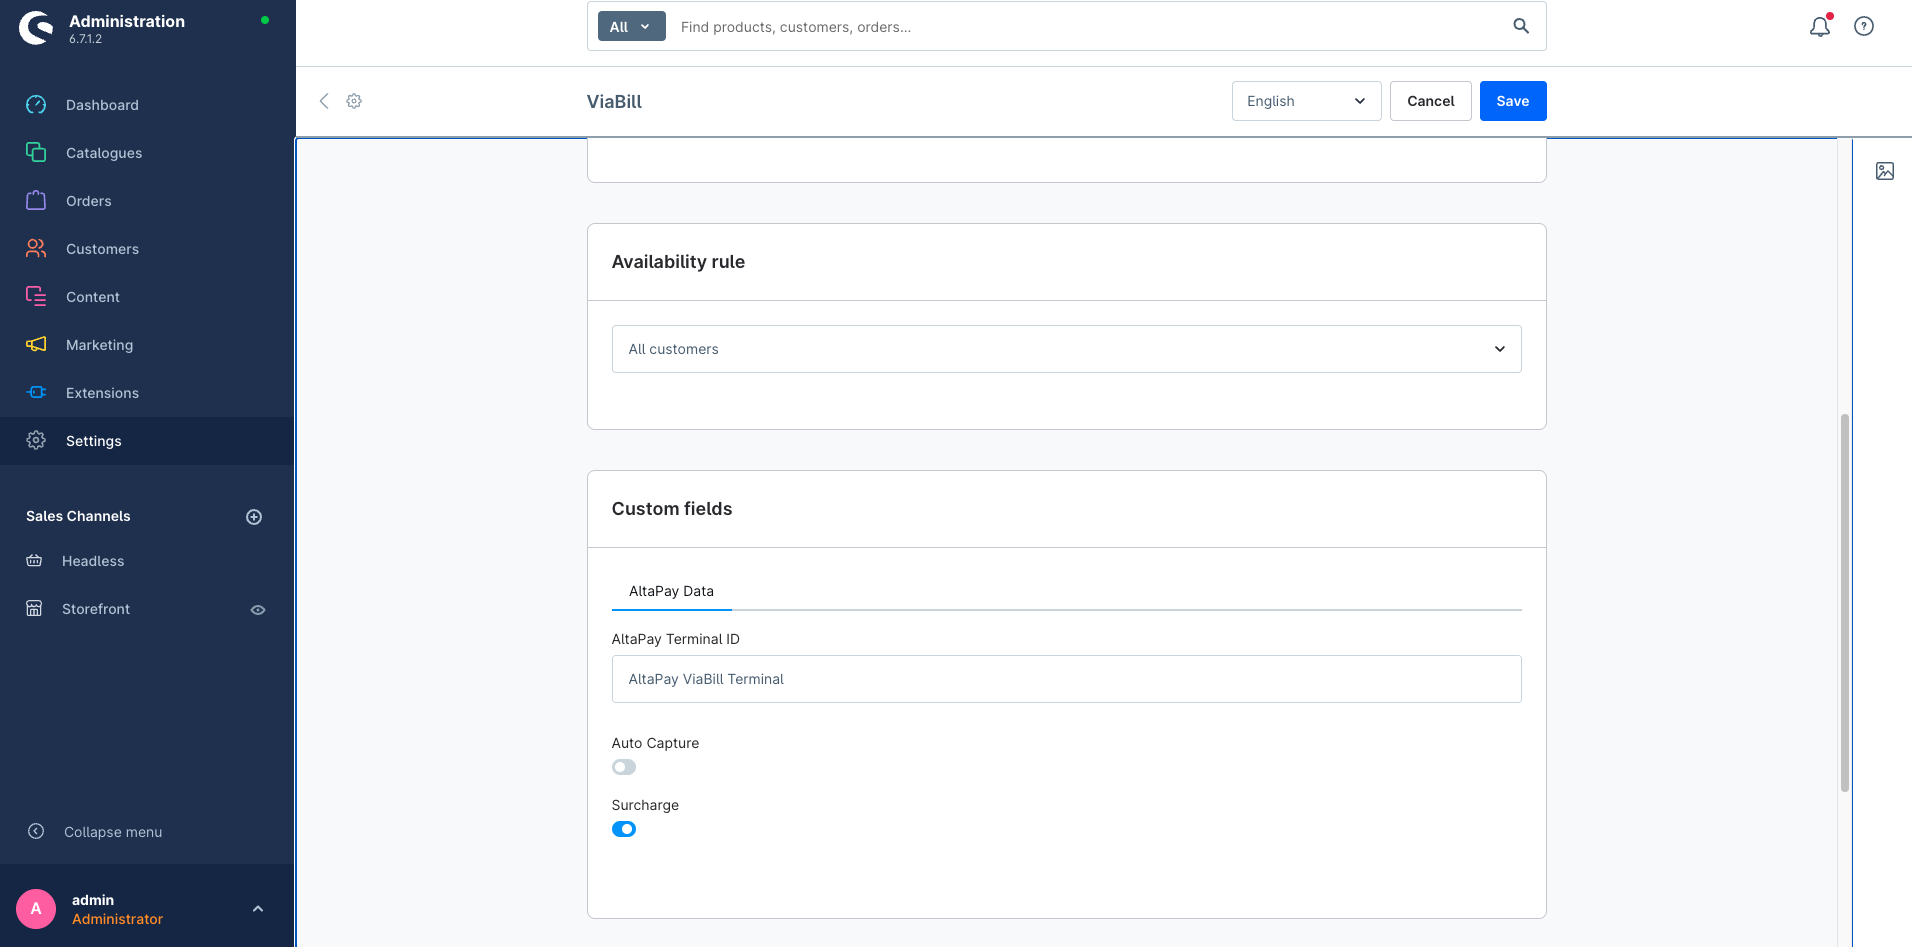
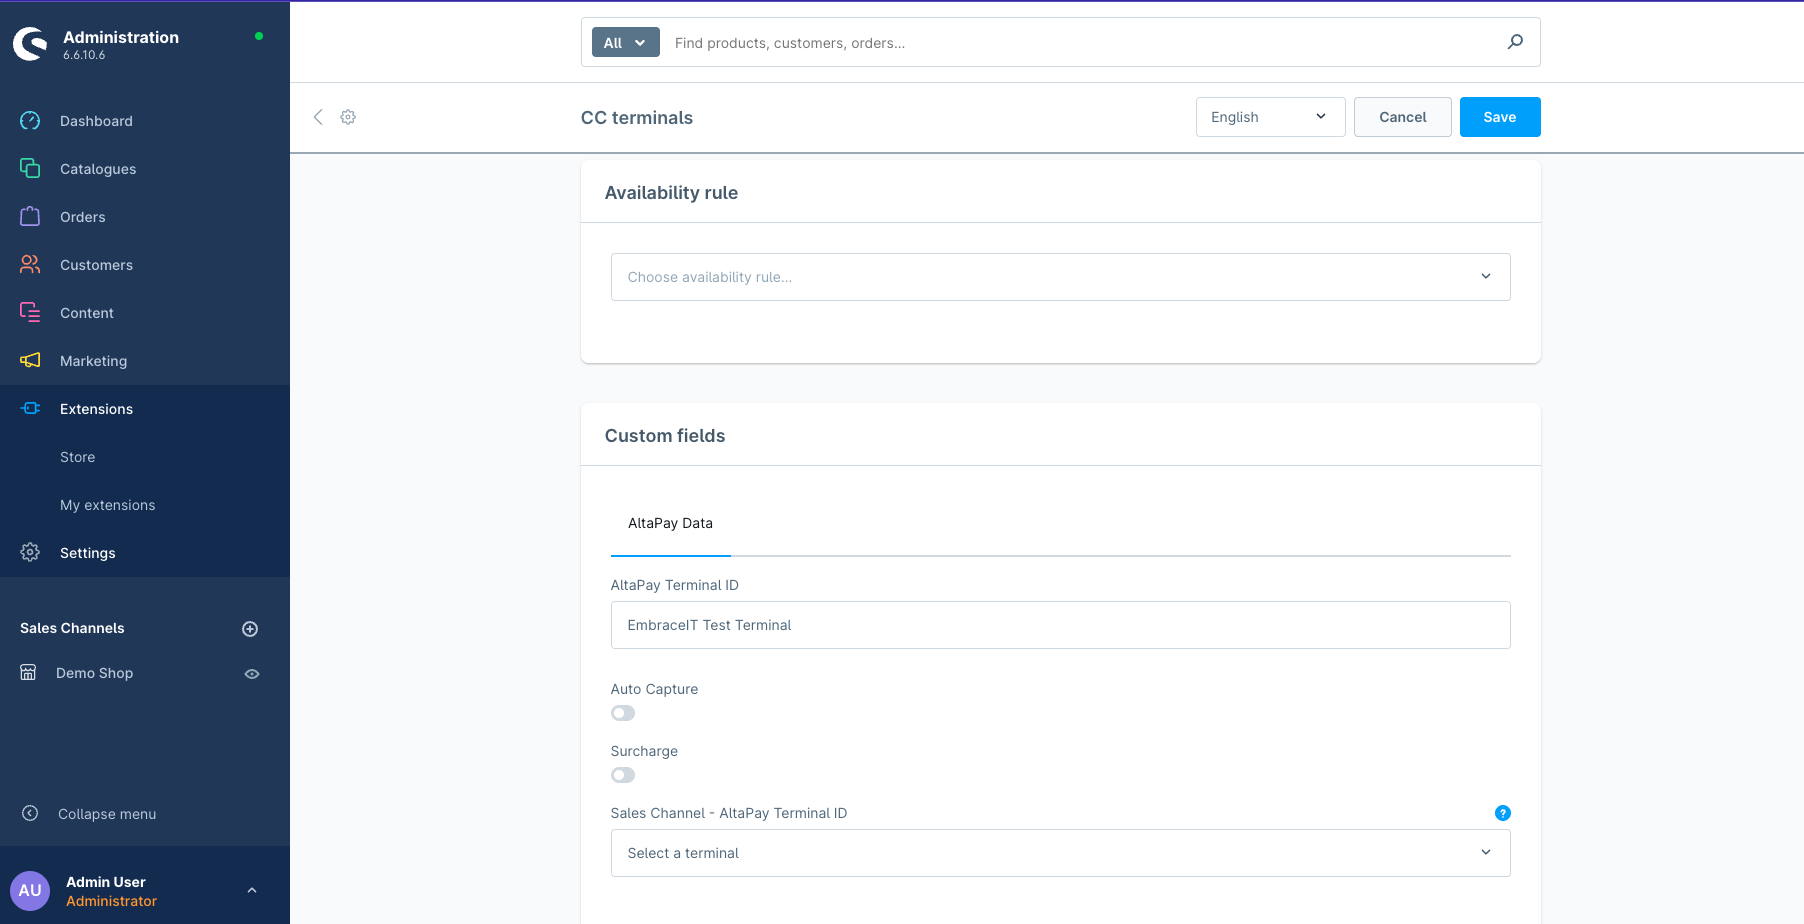
Update wiki with instructions for sales channel-specific terminal setup

diff --git a/wiki.md b/wiki.md
@@ -81,6 +81,7 @@ be provided by AltaPay.
    
     ![Checkout v2](Docs/Configuration/checkout_v2.png)
 
+7. Enter the terminal names from your AltaPay account that you want to use for specific sales channels in the **Terminal Setup** section. Link these terminals from the Payment Method page.
 
 ## Add Payment Methods
 
@@ -107,19 +108,21 @@ be provided by AltaPay.
 8. Once saved, a new section, **Custom fields**, will appear with the options **AltaPay Terminal ID**(where you must enter the terminal name from AltaPay), **Auto Capture**, and **Surcharge**.
     ![shopware_configure_altapay_terminal_detail](Docs/Configuration/shopware_configure_altapay_terminal_detail.png)
 
-9. Click the **Save** button again.
+9. Select a sales channel-specific terminal configuration. If left empty, the default terminal ID (from the field above) will be used.
 
-10. Now click on your desired shop from the **Sales Channels** menu on the left.
+10. Click the **Save** button again.
+
+11. Now click on your desired shop from the **Sales Channels** menu on the left.
  
-11. In the **General** tab, scroll down to the **Payment and shipping** section & search by name for the payment method you just created.
+12. In the **General** tab, scroll down to the **Payment and shipping** section & search by name for the payment method you just created.
 
     ![shopware_show_payment_method_on_checkout.png](Docs/Configuration/shopware_show_payment_method_on_checkout.png)
 
-12. Choose the payment method and click Save button in the top-right corner.
+13. Choose the payment method and click Save button in the top-right corner.
 
     ![shopware_verify_payment_method.png](Docs/Configuration/shopware_verify_payment_method.png)
 
-13. Once the payment methods are configured, you will be ready to process transactions through AltaPay.
+14. Once the payment methods are configured, you will be ready to process transactions through AltaPay.
 
     ![shopware_checkout_page.png](Docs/Configuration/shopware_checkout_page.png)
 